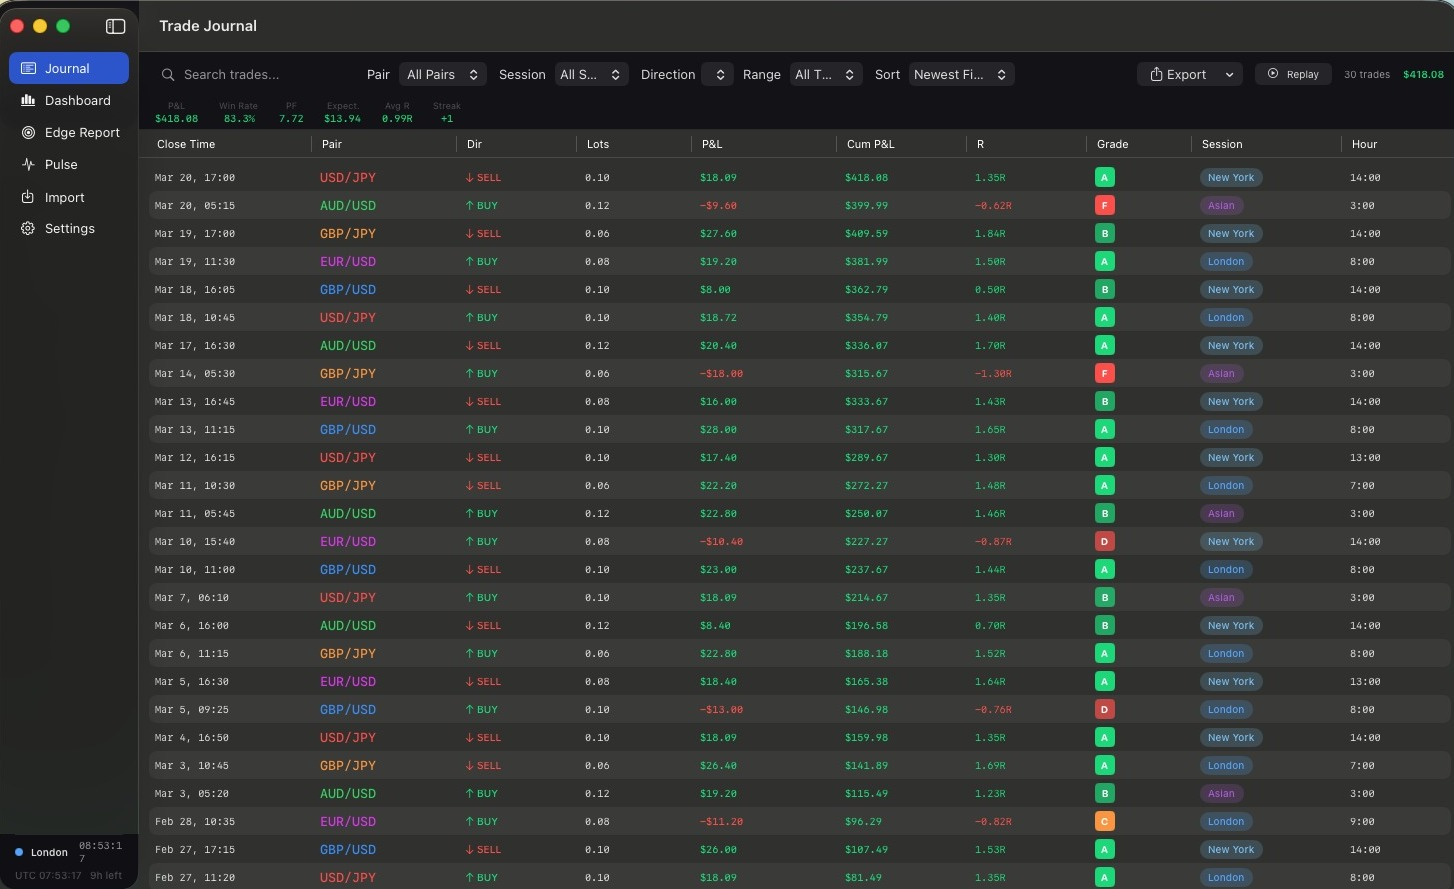
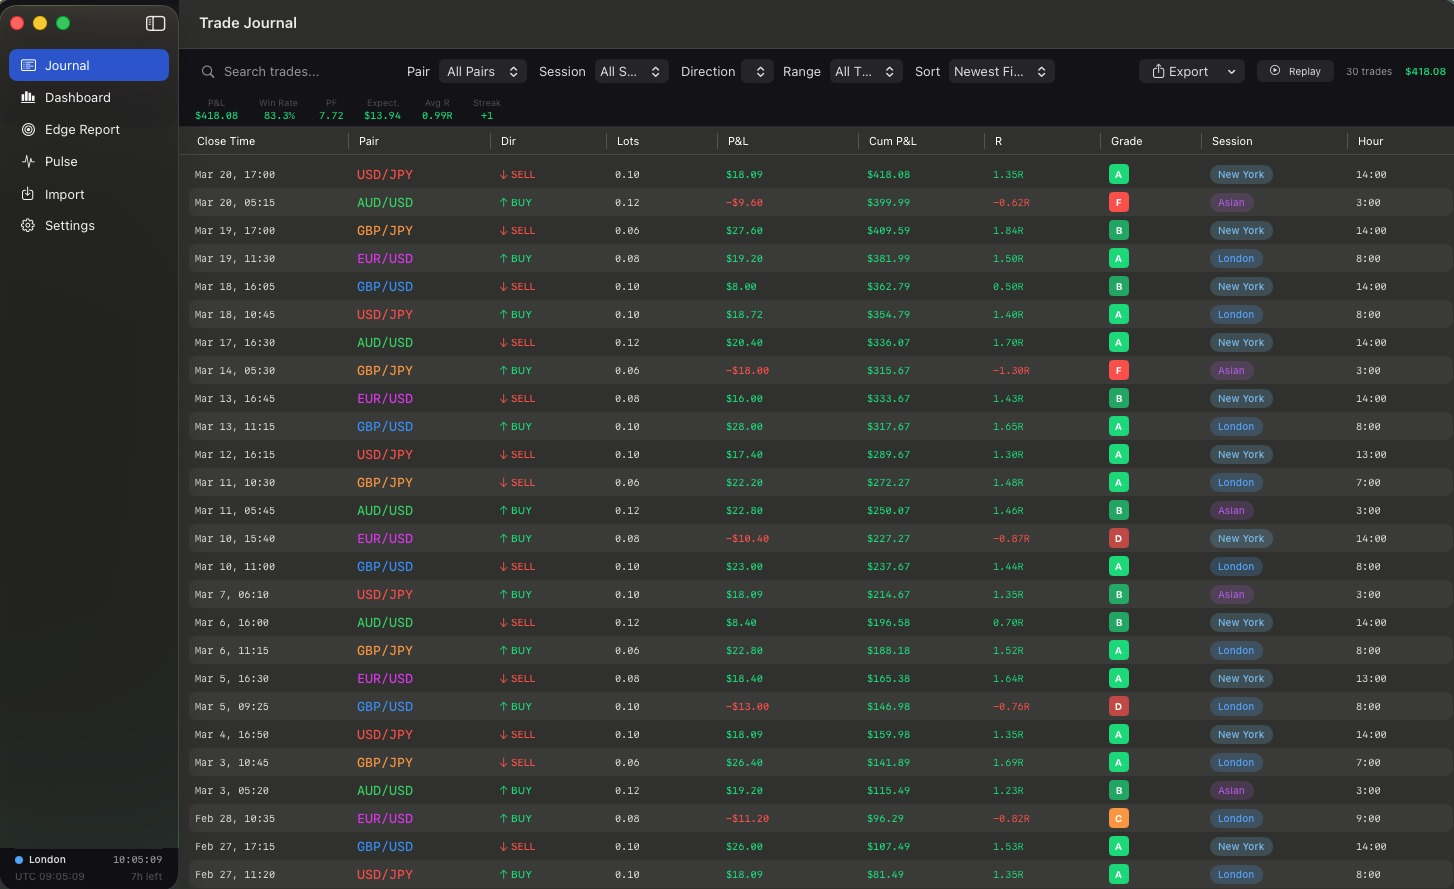
Add Monte Carlo and Behavioral Analytics screenshots to features page
- Retook all screenshots with fixed sidebar (wider default, no text wrapping)
- New icon (3-candle doji pattern) visible in updated screenshots
- Added Monte Carlo + Exit Analysis showcase with confidence bands
- Added Behavioral & Risk Analytics showcase (Discipline Score, Risk of Ruin,
  Trade Grades, Consistency Score, Session Intelligence)
- Features page now has 5 screenshot showcases: Journal, Edge Report, Pulse,
  Monte Carlo, Behavioral Analytics
- Updated hero dashboard screenshot with new icon and fixed sidebar

diff --git a/features/index.html b/features/index.html
@@ -197,6 +197,46 @@
 
         <hr class="divider">
 
+        <!-- Monte Carlo + Exit Analysis -->
+        <div class="showcase reverse">
+            <div class="showcase-image">
+                <img src="/images/feature-montecarlo.jpg" alt="Monte Carlo simulation with 1,000 equity curves, exit efficiency gauge, and commission cost analysis" loading="lazy" onclick="openLightbox(this)">
+            </div>
+            <div class="showcase-text">
+                <h2>Monte Carlo &amp; Exit Analysis</h2>
+                <p>Run 1,000 randomized simulations of your trade history to see the range of possible outcomes. Know your probability of hitting profit targets and your risk of drawdown — before it happens.</p>
+                <ul>
+                    <li>5th/25th/median/75th/95th percentile confidence bands</li>
+                    <li>Probability of profit, target hit, and max drawdown</li>
+                    <li>Exit efficiency gauge: how much money you leave on the table</li>
+                    <li>Commission &amp; swap cost tracking by symbol</li>
+                    <li>Post-close continuation: did price keep going after you exited?</li>
+                </ul>
+            </div>
+        </div>
+
+        <hr class="divider">
+
+        <!-- Behavioral Analytics -->
+        <div class="showcase">
+            <div class="showcase-image">
+                <img src="/images/feature-analytics.jpg" alt="Discipline score A grade, risk of ruin gauge, trade grade distribution, consistency score, and session intelligence" loading="lazy" onclick="openLightbox(this)">
+            </div>
+            <div class="showcase-text">
+                <h2>Behavioral &amp; Risk Analytics</h2>
+                <p>The features no other journal has. Know your discipline score, risk of ruin, and whether you're improving or slipping — backed by data, not feelings.</p>
+                <ul>
+                    <li>Discipline Score (A-F): overtrading, revenge, tilt, sizing</li>
+                    <li>Risk of Ruin: Kelly criterion with probability gauge</li>
+                    <li>Trade Grades: A-F distribution across your history</li>
+                    <li>Consistency Score: win rate stability, recovery speed, timing</li>
+                    <li>Session Intelligence: FOCUS / OK / REDUCE / AVOID per session</li>
+                </ul>
+            </div>
+        </div>
+
+        <hr class="divider">
+
         <!-- Analytics deep dive -->
         <section class="analytics-section">
             <div class="section-label" style="text-align:center;">Analytics</div>
